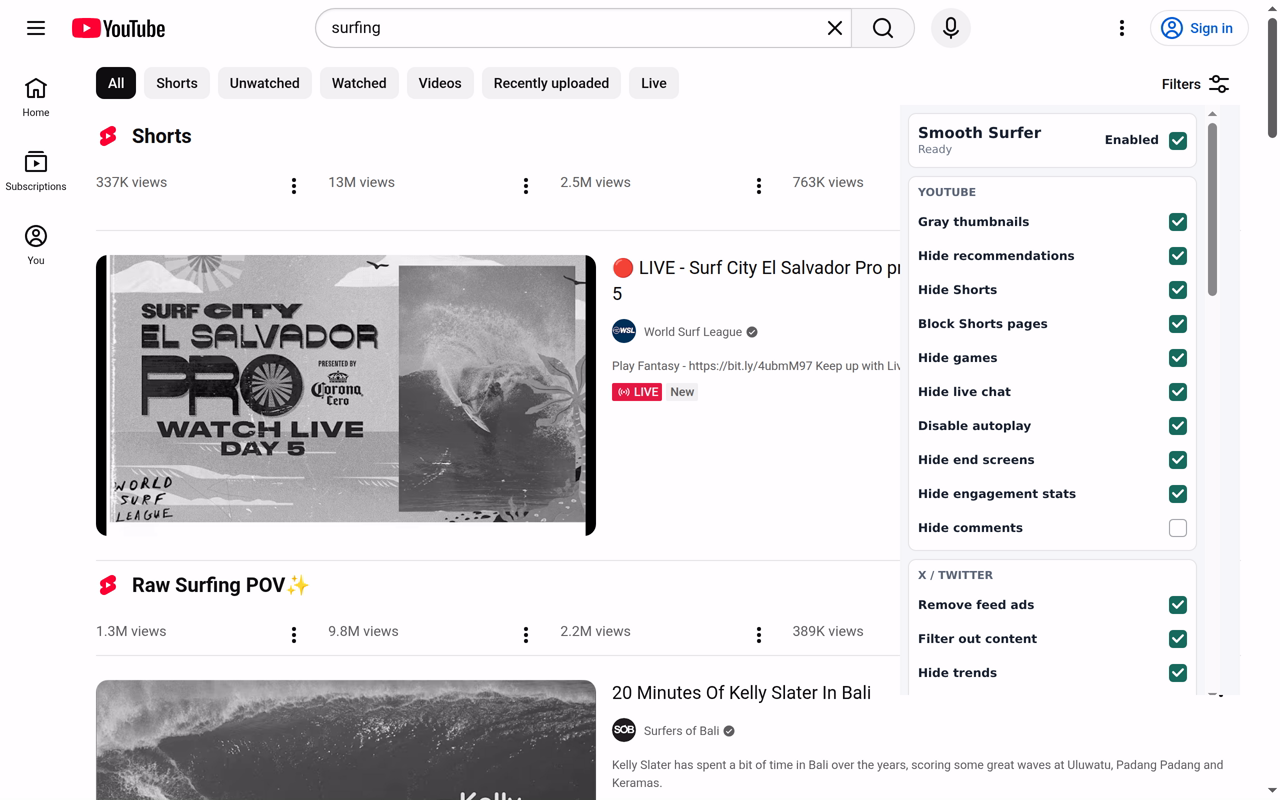
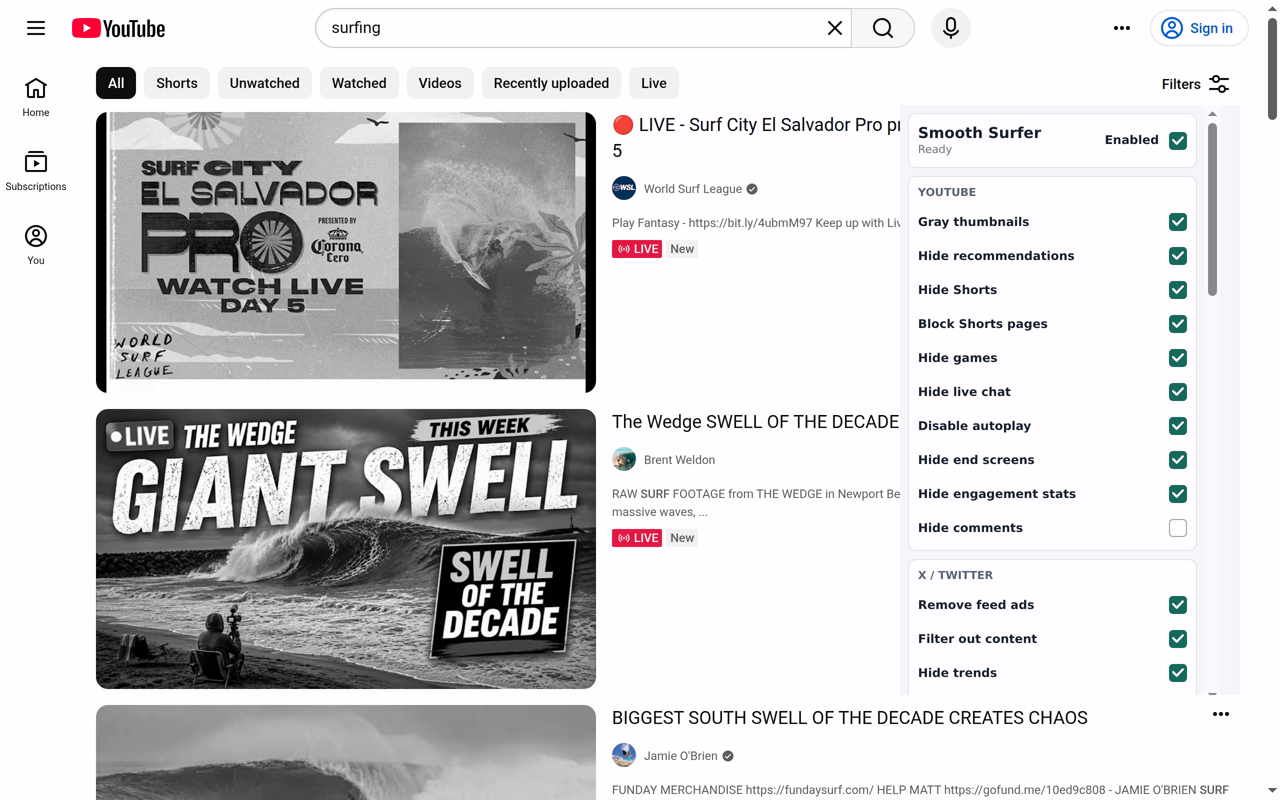
Make store releases reproducible
- scripts/capture-store-assets.mjs regenerates the 1280x800 store
  screenshots end-to-end: downloads Chrome for Testing if needed (plain
  Chrome 137+ ignores --load-extension), loads the unpacked extension
  against live YouTube/HN, captures the popup, and composes the final
  images with ffmpeg (npm run screenshots)
- docs/RELEASING.md documents the one-time human setup and the
  automatable per-release steps
- Refresh store screenshots from the committed script

https://claude.ai/code/session_01BRCTTAWdmtCoWPKchk7sxG

diff --git a/docs/RELEASING.md b/docs/RELEASING.md
@@ -1,0 +1,43 @@
+# Releasing Smooth Surfer
+
+How a release gets from this repo to the Chrome Web Store. Designed so a
+Claude session (or anyone) can run every step except the ones marked
+**human**, which need the store account.
+
+## One-time setup (human)
+
+1. Register at the [developer dashboard](https://chrome.google.com/webstore/devconsole)
+   ($5 one-time, 2FA required on the Google account).
+2. Create the item: upload `dist/smooth-surfer.zip`, then fill in the Store
+   listing and Privacy tabs from [store-listing.md](store-listing.md).
+   Screenshots live in [store-assets/](store-assets/).
+3. Submit for review. Approval gives the extension a permanent ID.
+4. To enable automated publishing afterwards (optional but recommended):
+   - Follow the [chrome-webstore-upload keys guide](https://github.com/fregante/chrome-webstore-upload-keys)
+     to create a Google Cloud OAuth client and refresh token for the
+     Chrome Web Store API.
+   - Add GitHub Actions secrets: `CWS_EXTENSION_ID`, `CWS_CLIENT_ID`,
+     `CWS_CLIENT_SECRET`, `CWS_REFRESH_TOKEN`.
+   - Set the repository variable `CWS_PUBLISH` to `true`.
+
+## Every release (automatable)
+
+1. Land changes on `main`.
+2. Bump `version` in `manifest.json` and `package.json` (keep them equal —
+   the release workflow refuses mismatched tags).
+3. `npm run check`
+4. If the UI or site styling changed, refresh screenshots:
+   `node scripts/capture-store-assets.mjs`
+   (needs ffmpeg; downloads Chrome for Testing into `.cache/` on Linux if no
+   `CHROME_BIN` is set — plain Chrome 137+ ignores `--load-extension`).
+5. Tag and push: `git tag v<version> && git push origin v<version>`.
+
+The `Release` workflow then verifies the tag matches the manifest, runs
+checks, builds the zip, stores it as a build artifact, and — when
+`CWS_PUBLISH` is `true` and the secrets exist — uploads it to the Web Store
+with auto-publish. New versions of an approved extension are usually
+reviewed much faster than the first submission.
+
+Until the API credentials exist, the last step is manual: download the zip
+from the workflow artifact (or run `npm run package`) and upload it in the
+developer dashboard.